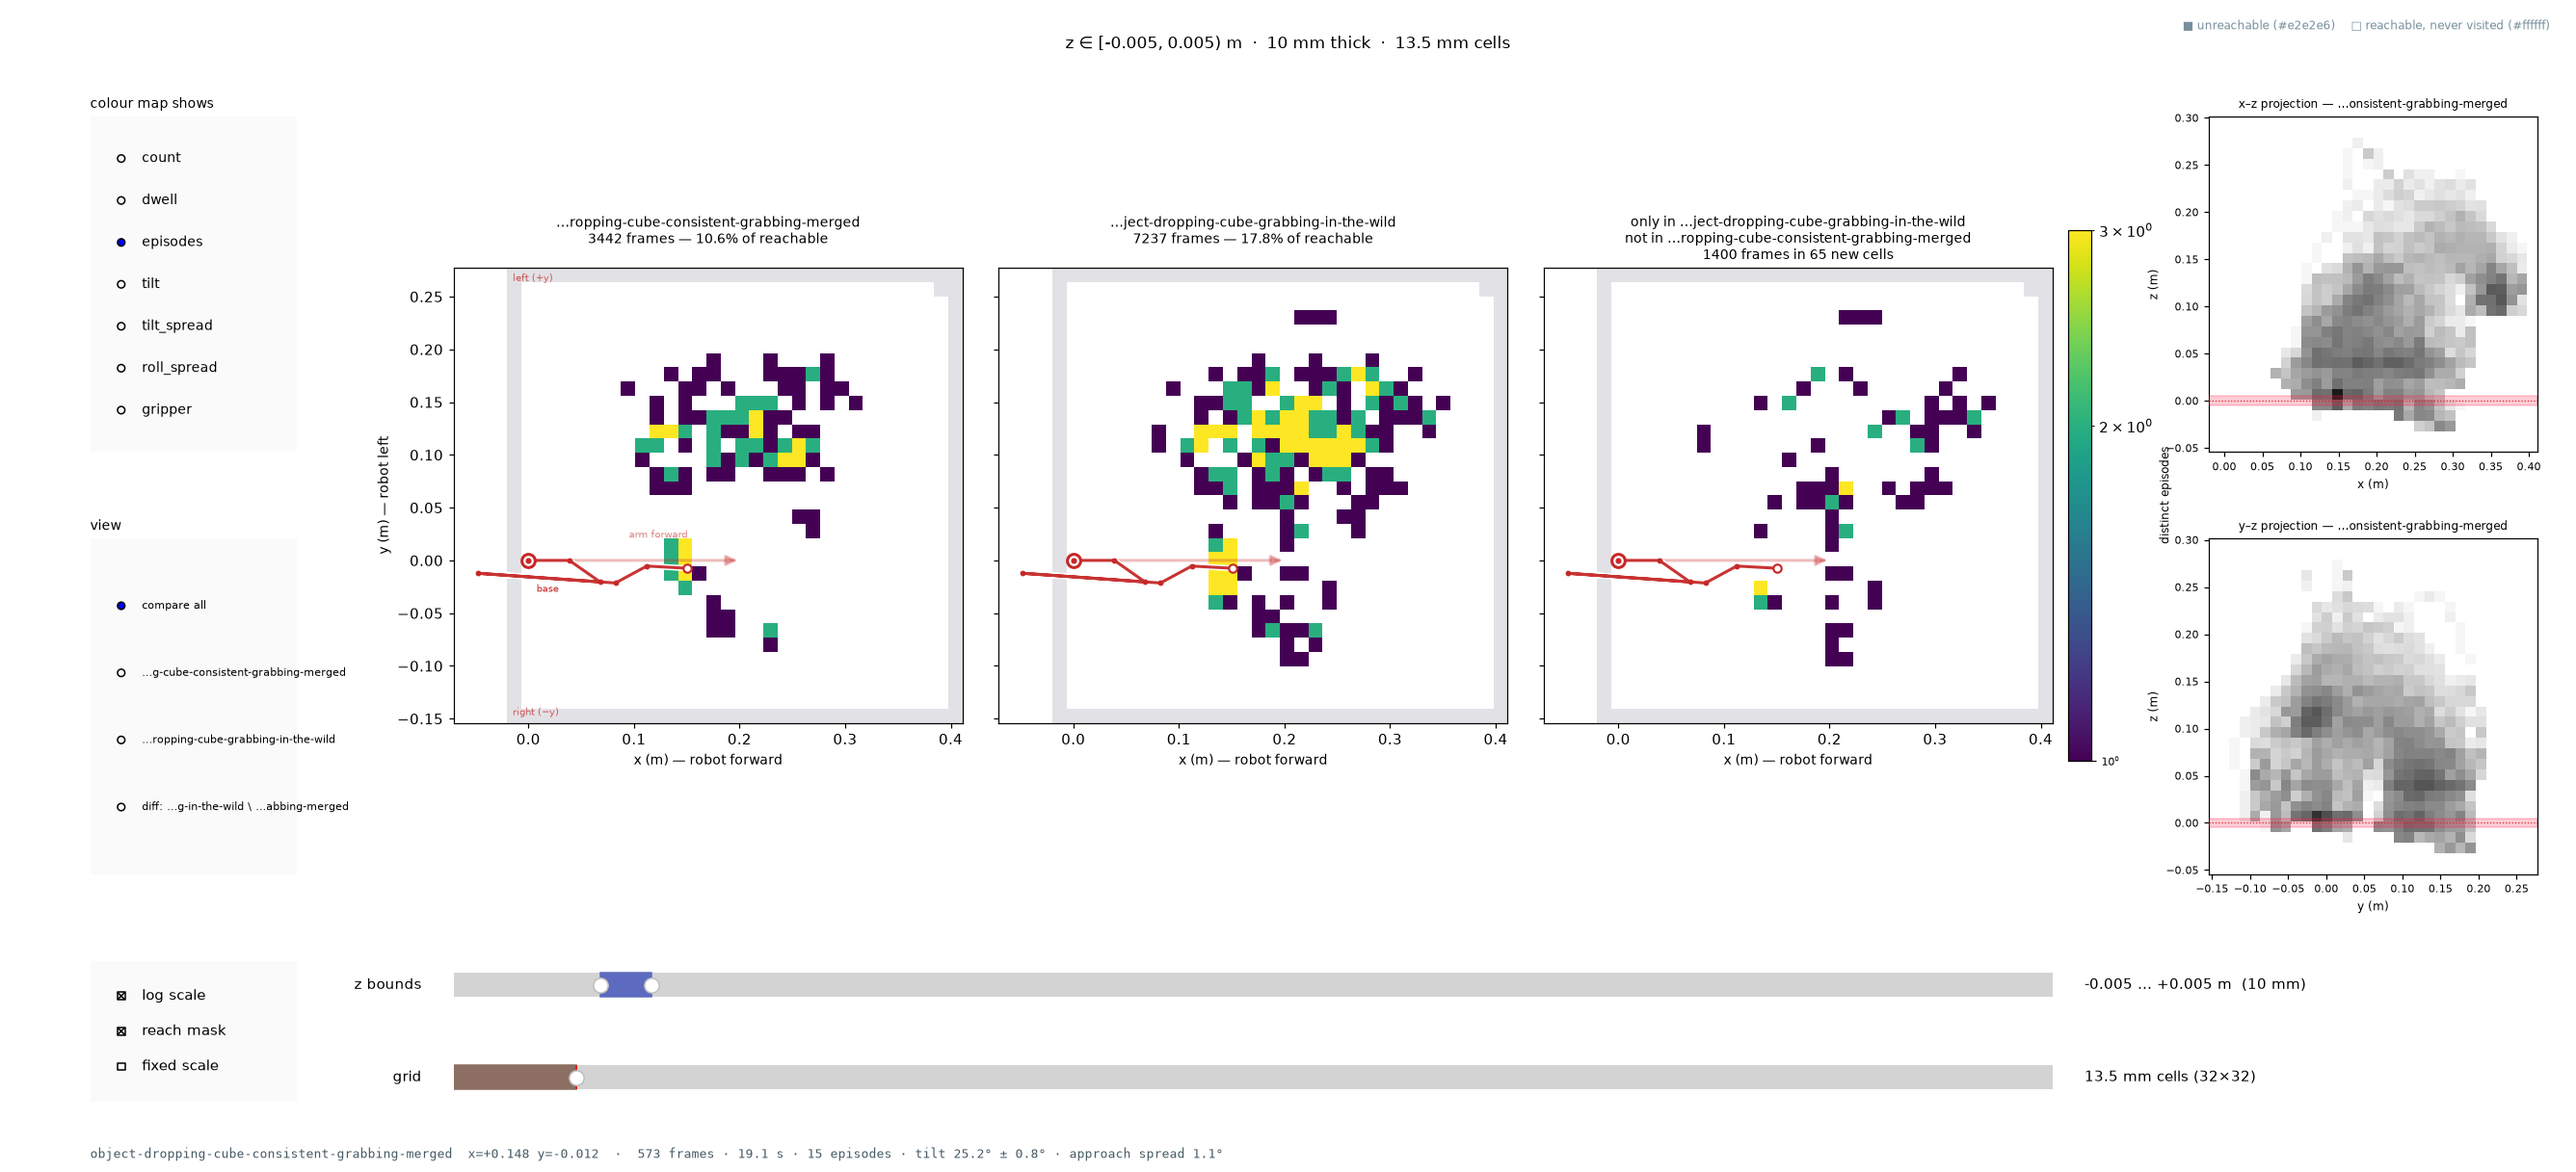
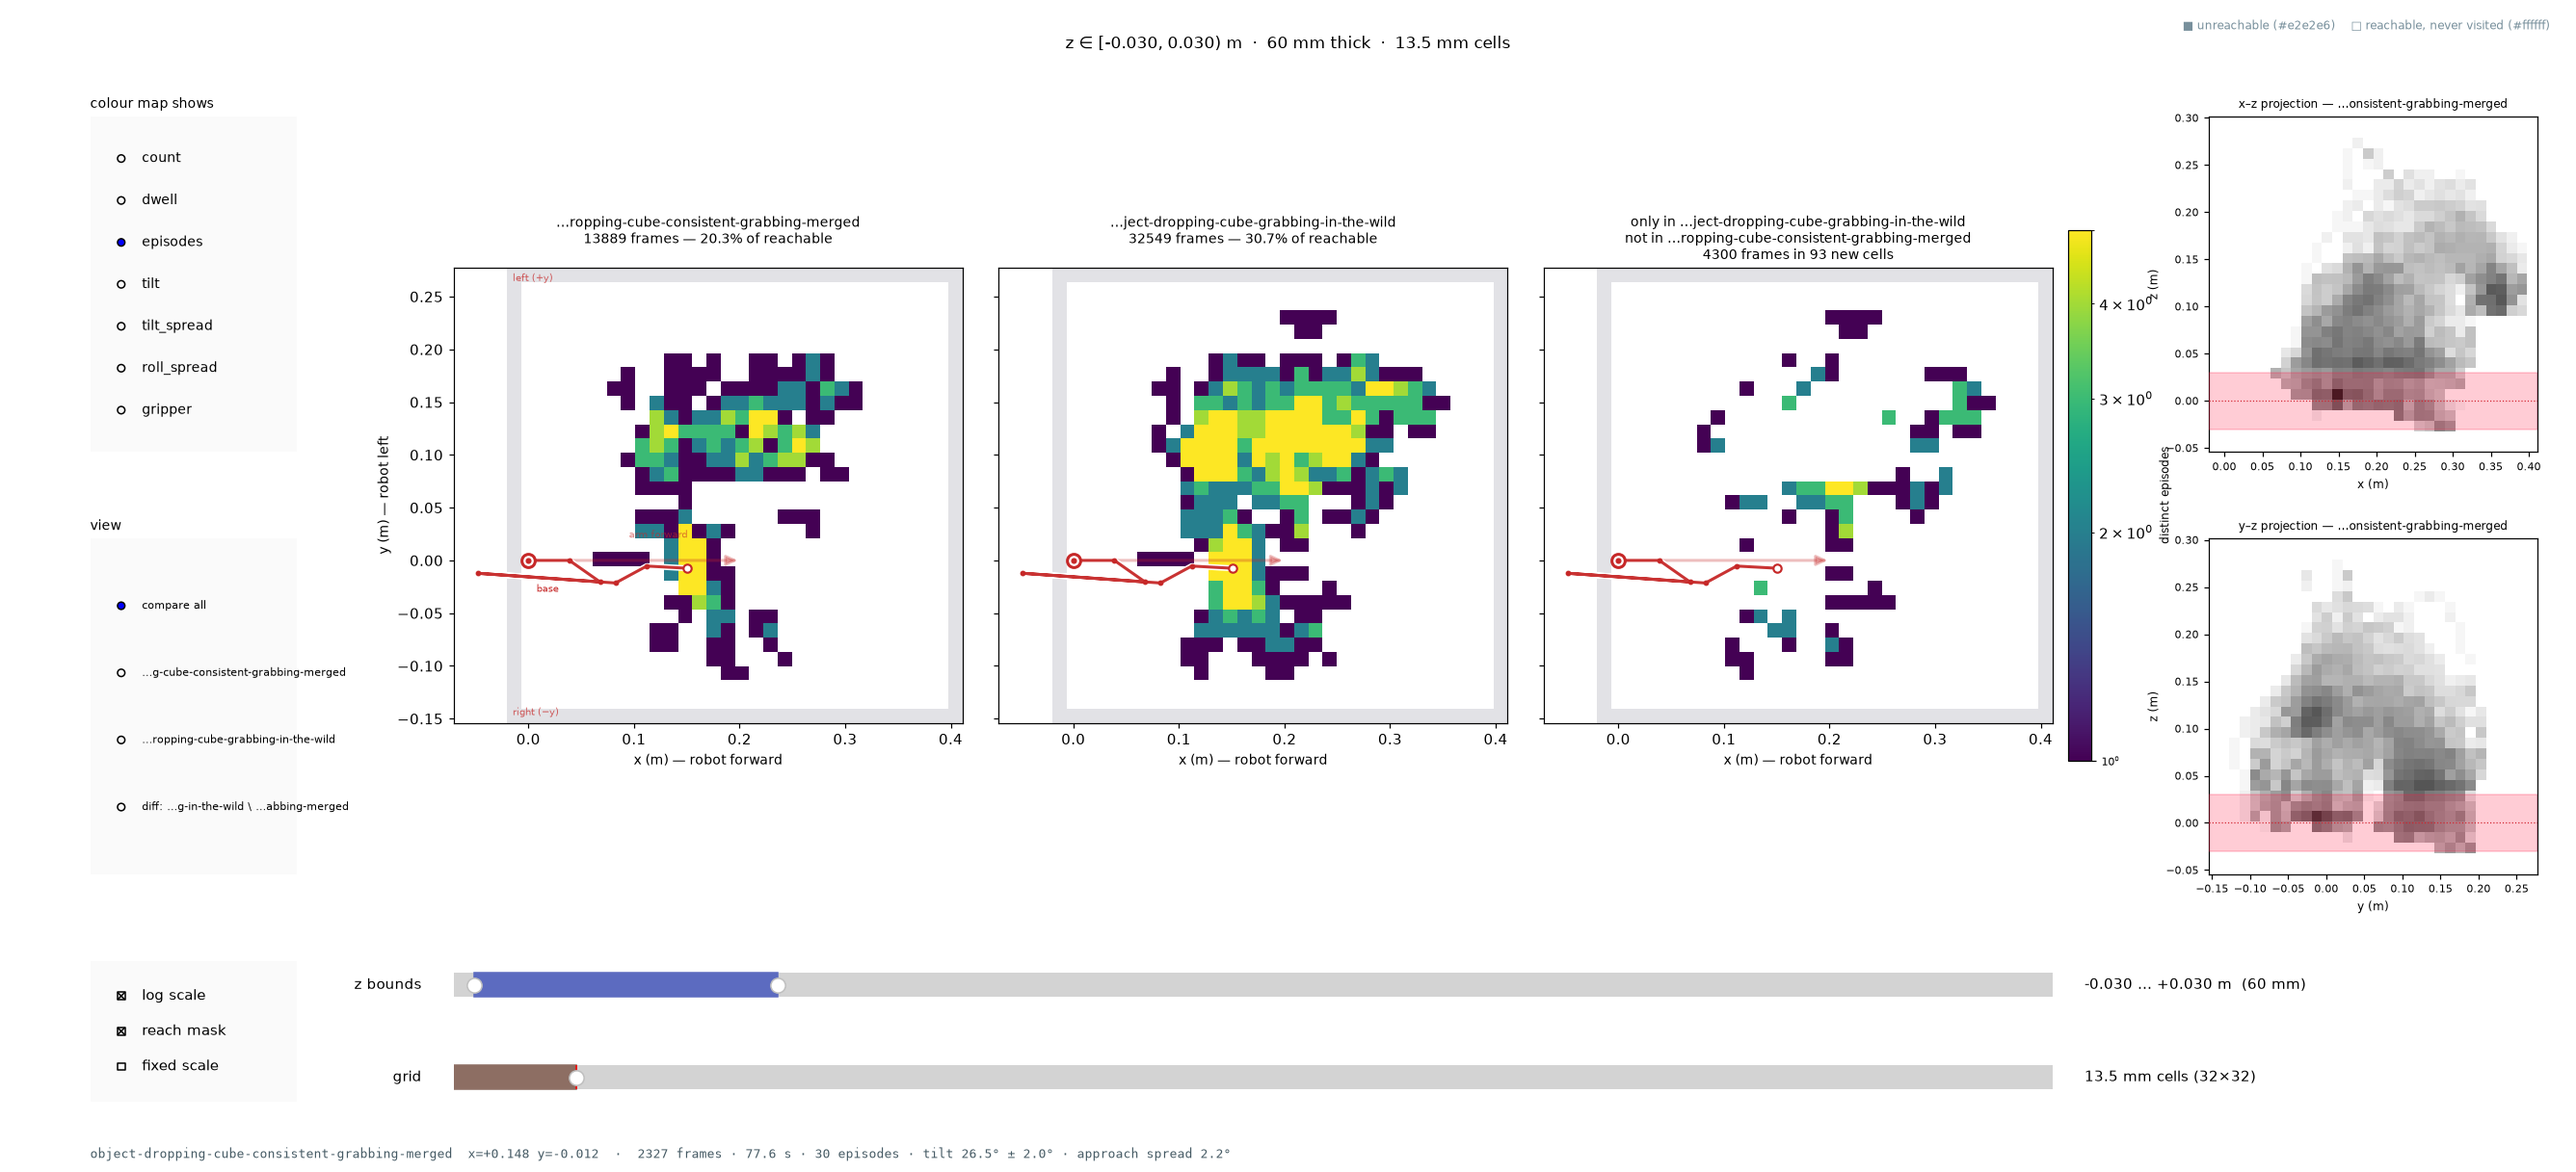
Open on a 60 mm slab rather than 10 mm
z in [-0.03, 0.03): 3 cm either side of table height. The 10 mm band was
too thin to be a useful first view -- it held 3,442 of the 41,314 frames
and made the dataset look emptier than it is. The wider default catches
a third of the frames and 20.2% of the reachable area.

Figures and the numbers quoted around them regenerated to match.

Claude-Session: https://claude.ai/code/session_017pQ4pw85xt3LLj5RrtjCwh

diff --git a/02-ee-workspace-coverage/ee_coverage.py b/02-ee-workspace-coverage/ee_coverage.py
@@ -902,9 +902,9 @@ def build_arg_parser() -> argparse.ArgumentParser:
     parser.add_argument("--diff", default=None, help="'B:A' -- show coverage in B that is absent from A.")
     parser.add_argument("--no-include-base", dest="include_base", action="store_false",
                         help="Crop to the reached workspace instead of always showing the robot base.")
-    parser.add_argument("--z-bounds", default="-0.005,0.005",
+    parser.add_argument("--z-bounds", default="-0.03,0.03",
                         help="Initial slab for the viewer, e.g. '0.05,0.09' "
-                             "(default: -0.005,0.005 -- a 10 mm band about table height).")
+                             "(default: -0.03,0.03 -- a 60 mm band about table height).")
     parser.add_argument("--rest-pose", choices=("home", "zero", "none"), default="home",
                         help="Arm pose drawn for reference: the median episode-start pose, the URDF "
                              "zero config, or nothing (default: home).")

diff --git a/02-ee-workspace-coverage/README.md b/02-ee-workspace-coverage/README.md
@@ -23,7 +23,7 @@ binned in Cartesian space, with a slider to walk up through the workspace height
 ![the interactive viewer](assets/viewer.png)
 
 The main panel is a top-down x–y map of one horizontal slab of the workspace — by default
-`z ∈ [-0.005, 0.005)` m, a 10 mm band straddling table height, in 13.5 mm cells. The robot
+`z ∈ [-0.030, 0.030)` m, a 60 mm band straddling table height, in 13.5 mm cells. The robot
 is drawn at the origin with a pale arrow along the direction it faces, so it is always
 obvious which side of the arm the data is on.
 
@@ -34,9 +34,9 @@ Three states are distinguished, which is the point of the whole exercise:
 - **colour** — visited, shaded by how many *distinct episodes* went through it
 
 Without the grey, a coverage percentage would be meaningless: you would be measuring
-against a bounding box rather than against what the arm can actually do. Here 3,442 frames
-land in this thin band and cover **10.4% of the reachable area**; taking the whole workspace
-in six thicker slices, the figure peaks at 27%.
+against a bounding box rather than against what the arm can actually do. Here 13,889 frames
+land in this band and cover **20.2% of the reachable area** — a third of the dataset's frames,
+and still four fifths of the table at that height never touched.
 
 Colouring by episodes rather than frame count is the more honest default — a cell the arm
 merely dwelt in for one slow episode looks busy by frame count, but stays dark here.
@@ -53,8 +53,8 @@ each of their opening camera frames.
 
 ![the episodes behind one cell](assets/popup.png)
 
-That is what turns a heatmap into an explanation. Thirteen episodes pass through this one
-cell just in front of the base — and the cube sits somewhere different in every frame, so
+That is what turns a heatmap into an explanation. Twenty-seven episodes pass through this
+one cell just in front of the base — and the cube sits somewhere different in every frame, so
 the cell is where the arm parks between episodes, not anything the task put there. Cells
 further out tell the opposite story: the same cube position in frame after frame, because
 that is exactly where the cube was.
@@ -71,7 +71,7 @@ panel is the diff — `B \ A`, the cells B visited that A never did — recomput
 either slider.
 
 Against the 146-episode `object-dropping-cube-grabbing-in-the-wild`, the smaller set's
-10.6% becomes 17.8%, and the diff isolates exactly what is new: **1,400 frames in 65 cells**.
+20.3% becomes 30.7%, and the diff isolates exactly what is new: **4,300 frames in 93 cells**.
 Reading where they fall matters more than the count — they are not a rim around the
 existing blob, they are scattered through the middle *and* down into the y < 0 half that
 `consistent-grabbing-merged` barely touched. Neither of the first two panels tells you that
@@ -104,7 +104,7 @@ uv run --project $L python ee_coverage.py \
     --z-slices 6 --out-dir assets/
 ```
 
-The defaults are a 10 mm slab at table height, 13.5 mm cells, and a log colour scale over
+The defaults are a 60 mm slab at table height, 13.5 mm cells, and a log colour scale over
 distinct episodes; `--z-bounds`, `--bins`, `--panel-color` and `--no-log` override them.
 `--panel-color` also takes `count`, `dwell`, `tilt`, `tilt_spread`, `roll_spread` and
 `gripper`; `--source action` bins the commanded pose rather than the measured one; `--rerun`
